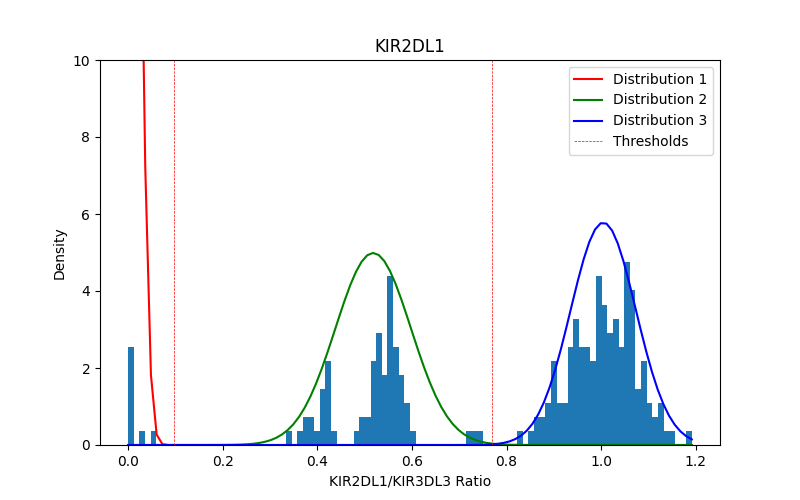
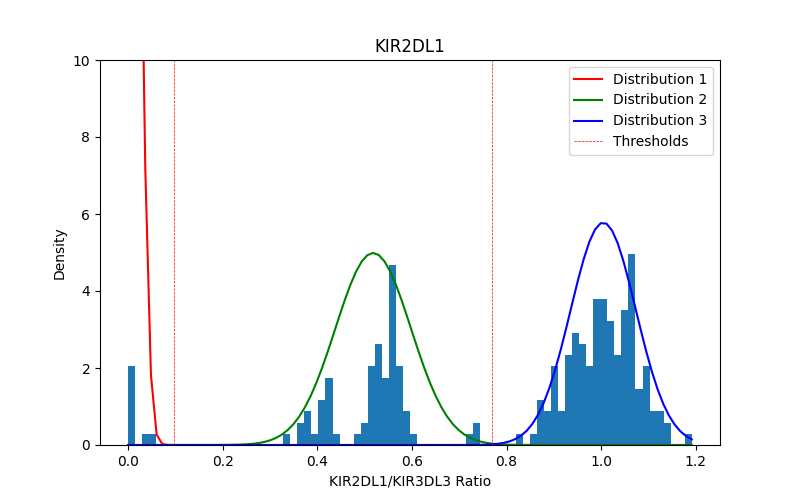
check run time, change bin size

diff --git a/functions/gaussianfunctions.py b/functions/gaussianfunctions.py
@@ -282,7 +282,7 @@ def PlotGMM(X,iteration_data,plotper_iter:int,thresholds,title_name:str,ylimit,m
             fig=plt.figure(figsize=(8,5))
             plt.title(title_name)
             # plt.scatter(X, [0.005] * len(X), color='mediumslateblue', s=15, marker="|", label="Data points")
-            plt.hist(X,bins=100,density=True)
+            plt.hist(X,bins=80,density=True)
 
             
             #Plot the estimated pdf

diff --git a/functions/main_function.py b/functions/main_function.py
@@ -1,3 +1,5 @@
+import time
+start_time = time.time()
 import numpy as np
 from sklearn.mixture import GaussianMixture
 import pandas as pd
@@ -107,3 +109,5 @@ with open('/Users/devitahalim/Documents/GitHub/scie30001-project/output/output_o
     writer = csv.writer(file)
     writer.writerow(lowprob_header)
     writer.writerows(lowprob_data)
+
+print("Process finished --- %s seconds ---" % (time.time() - start_time))
